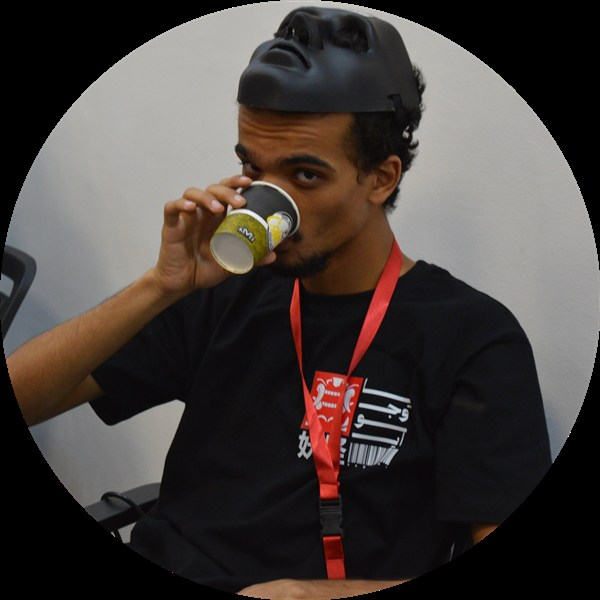
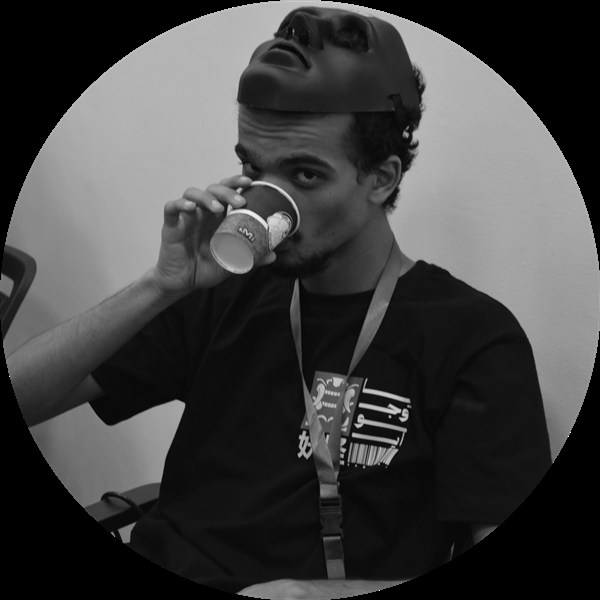
feat: add terminal-style boot sequence animation and new site assets

Changed region(s): [[0.0, 0.18, 0.69, 0.84], [0.39, 0.87, 0.66, 1.0], [0.78, 0.87, 0.84, 0.9]]

diff --git a/src/styles/global.css b/src/styles/global.css
@@ -257,12 +257,14 @@ a:hover {
   height: 100%;
   object-fit: cover;
   border-radius: var(--radius-lg);
+  filter: grayscale(100%);
 }
 .xhair {
   position: absolute;
   width: 12px;
   height: 12px;
   pointer-events: none;
+  z-index: 2;
 }
 .xhair.tl { top: 6px; left: 6px; border-top: 2px solid var(--blue-bright); border-left: 2px solid var(--blue-bright); border-top-left-radius: 4px; }
 .xhair.tr { top: 6px; right: 6px; border-top: 2px solid var(--blue-bright); border-right: 2px solid var(--blue-bright); border-top-right-radius: 4px; }
